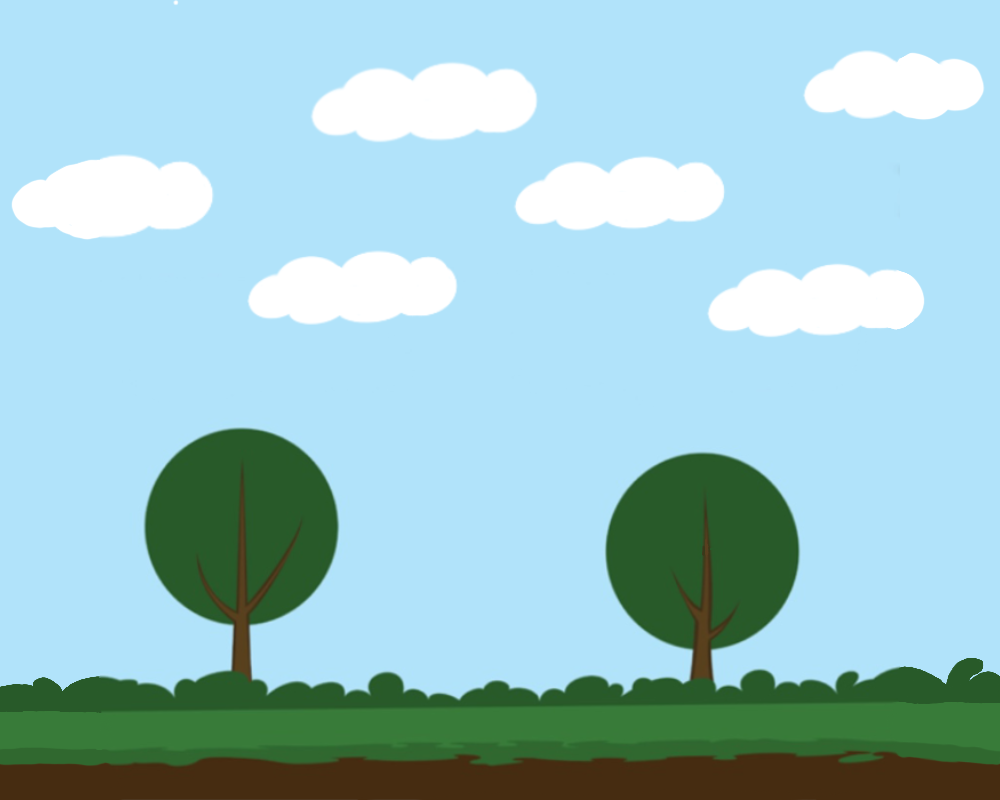
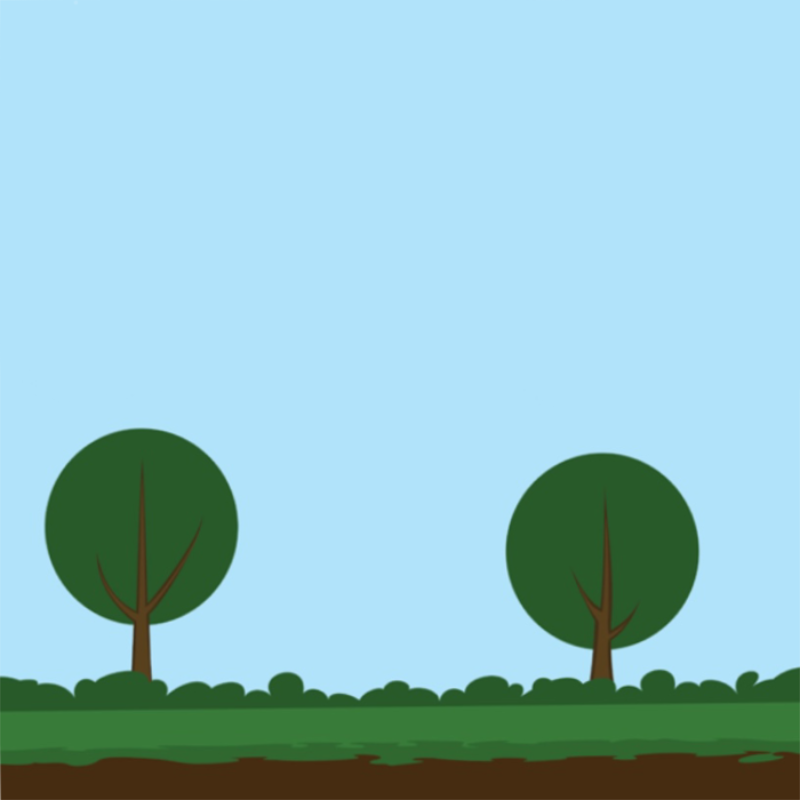
sky import

diff --git a/platformer.py b/platformer.py
@@ -51,6 +51,7 @@ exit_img = pygame.image.load('img/exit_btn.png') # ปุ่มออก
 how_to_play_img = pygame.image.load("img/how_to_play_btn.png")
 back_img = pygame.image.load("img/back_btn.png")
 logo_img = pygame.image.load("img/logo.png")
+sky_img = pygame.image.load("img/sky.png")
 
 #load sounds
 pygame.mixer.music.load('img/music.wav') # เสียงในเกม
@@ -452,6 +453,7 @@ while run:
 
   screen.blit(bg_img, (0, 0))
   screen.blit(sun_img, (100, 100))
+  screen.blit(sky_img, (0, 0))
 
   if main_menu == True:
       # หน้าจอหลัก
